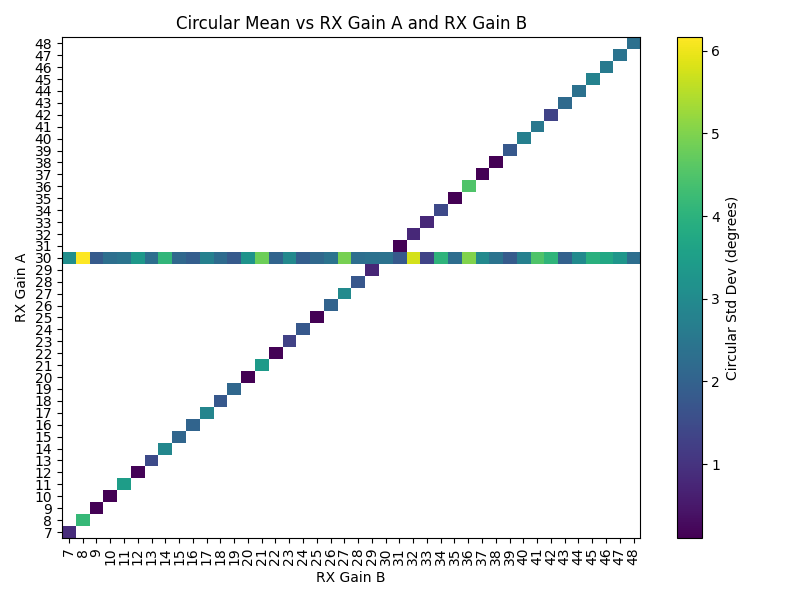
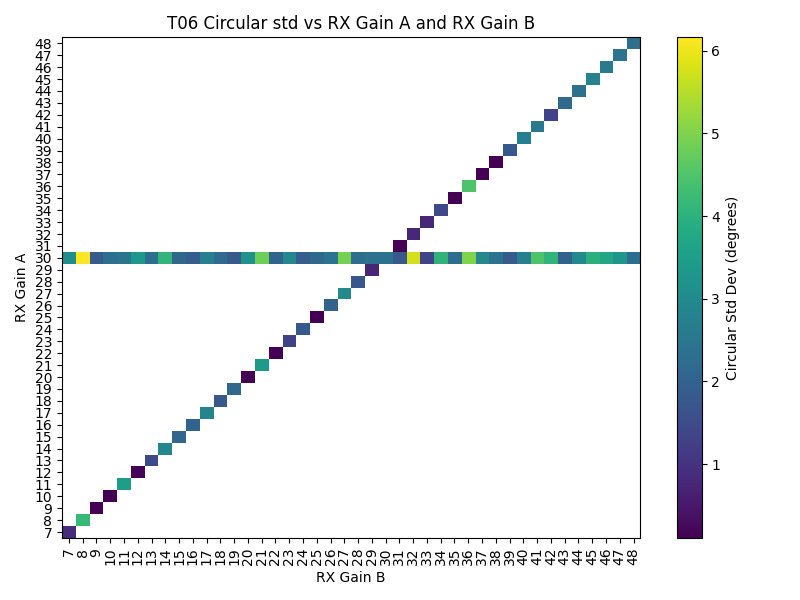
update figs

Changed region(s): [[0.2188, 0.03, 0.6875, 0.06]]

diff --git a/experiments/06_multi_usrp_rx/processing/plot_mean_2d.py b/experiments/06_multi_usrp_rx/processing/plot_mean_2d.py
@@ -45,7 +45,7 @@ def plot_circular_mean_heatmap(csv_file, save_path):
         plt.ylabel('RX Gain A')
 
         # Set title
-        plt.title('Circular Mean vs RX Gain A and RX Gain B')
+        plt.title(f'{hostname} Circular Mean vs RX Gain A and RX Gain B')
 
         # Save the figure
         plot_filename = f'{hostname}_circular_mean_heatmap.png'
@@ -73,7 +73,7 @@ def plot_circular_mean_heatmap(csv_file, save_path):
         plt.ylabel('RX Gain A')
 
         # Set title
-        plt.title('Circular Mean vs RX Gain A and RX Gain B')
+        plt.title(f'{hostname} Circular std vs RX Gain A and RX Gain B')
 
         # Save the figure
         plot_filename = f'{hostname}_circular_std_heatmap.png'
